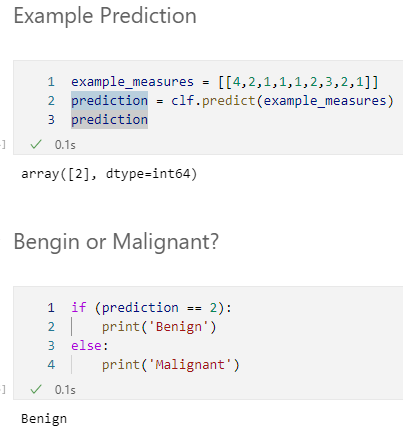
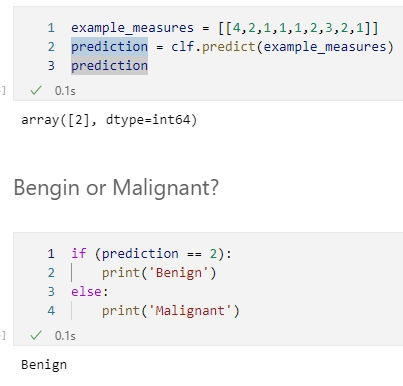
v1.0.02
images resized

diff --git a/README.md b/README.md
@@ -40,10 +40,8 @@ Training shows that the Support Vector Machine model has the highest training ac
 ##Random Testing
 We provided a list of numbers as an input for nine features and it accurately predicted the class for breast cancer.
 
-### Benign Cancer
 ![Example Prediction for Benign!](results/benignPred.PNG "Benign Cancer")
 
-### Malignant Cancer
 ![Example Prediction for Malignant!](results/malignantPred.png "Malignant Cancer")
 
 ## Conclusion
